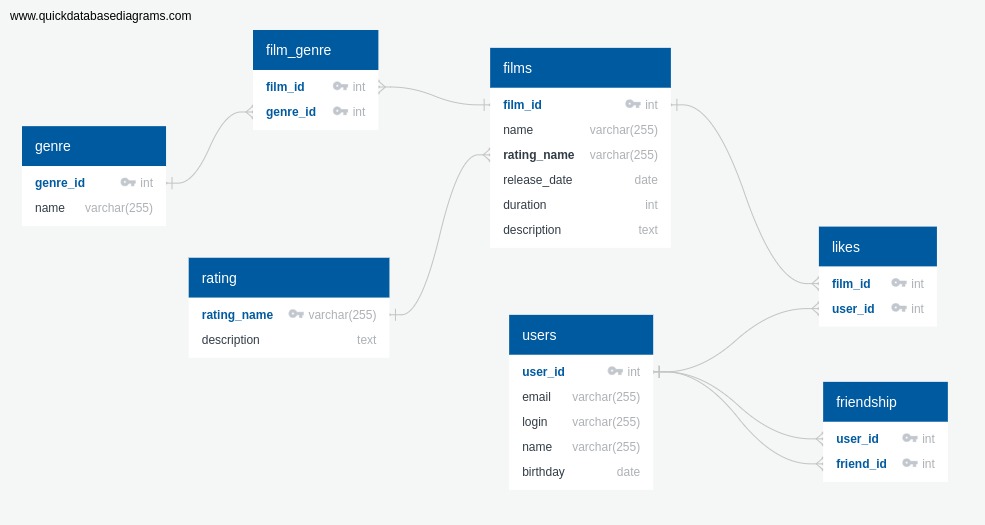
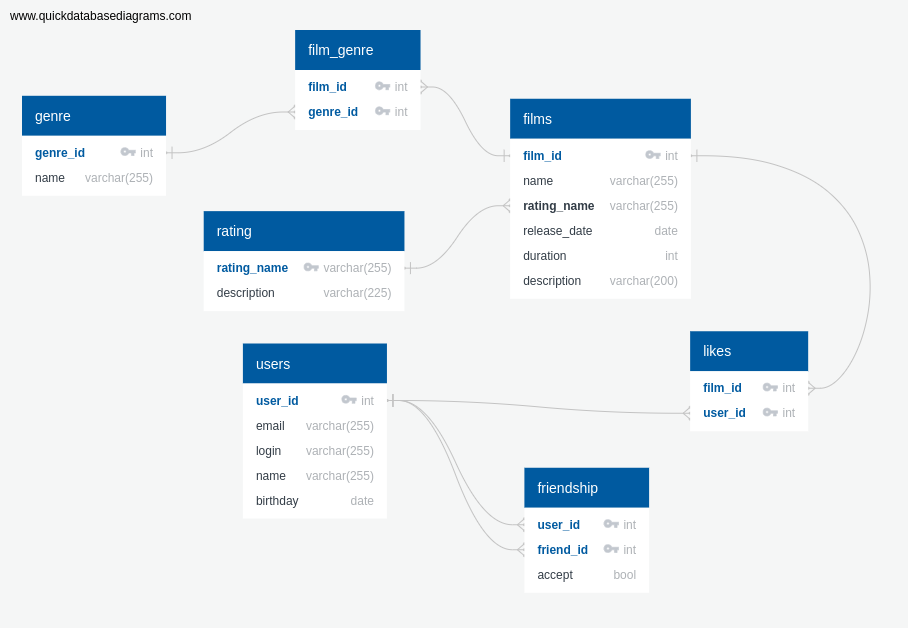
refactor: added a sign of friendship confirmation

diff --git a/README.md b/README.md
@@ -62,29 +62,64 @@ SELECT u.user_id,
        u.birthday
 FROM friendship AS f
 INNER JOIN users AS u ON u.user_id = f.friend_id
-WHERE f.user_id = user_id;
+WHERE f.user_id = userId AND f.accept = true
+UNION
+SELECT u.user_id,
+       u.email,
+       u.login,
+       u.name,
+       u.birthday
+FROM friendship AS f
+INNER JOIN users AS u ON u.user_id = f.user_id
+WHERE f.friend_id = userId AND f.accept = true;
 ```
 
 ### Получить общих друзей
 GET users/{userId}/friends/common/{friendId}
 ```roomsql
-SELECT u.user_id,
-       u.email,
-       u.login,
-       u.name,
-       u.birthday
-FROM friendship AS f
-INNER JOIN users AS u ON f.friend_id = u.user_id
-WHERE f.user_id = userId
+SELECT *
+FROM (
+    SELECT u.user_id,
+           u.email,
+           u.login,
+           u.name,
+           u.birthday
+    FROM friendship AS f
+    INNER JOIN users AS u ON u.user_id = f.friend_id
+    WHERE f.user_id = userId AND f.accept = true
+    UNION
+    SELECT u.user_id,
+           u.email,
+           u.login,
+           u.name,
+           u.birthday
+    FROM friendship AS f
+    INNER JOIN users AS u ON u.user_id = f.user_id
+    WHERE f.friend_id = userId AND f.accept = true
+) AS t1
+
 INTERSECT
-SELECT u.user_id,
-       u.email,
-       u.login,
-       u.name,
-       u.birthday
-FROM friendship AS f
-INNER JOIN users AS u ON f.friend_id = u.user_id
-WHERE f.user_id = friendId;
+
+SELECT *
+FROM (
+    SELECT u.user_id,
+           u.email,
+           u.login,
+           u.name,
+           u.birthday
+    FROM friendship AS f
+    INNER JOIN users AS u ON u.user_id = f.friend_id
+    WHERE f.user_id = friendId AND f.accept = true
+    UNION
+    SELECT u.user_id,
+           u.email,
+           u.login,
+           u.name,
+           u.birthday
+    FROM friendship AS f
+    INNER JOIN users AS u ON u.user_id = f.user_id
+    WHERE f.friend_id = friendId AND f.accept = true
+) AS t2
 ```
 ## Работа с фильмами
 
